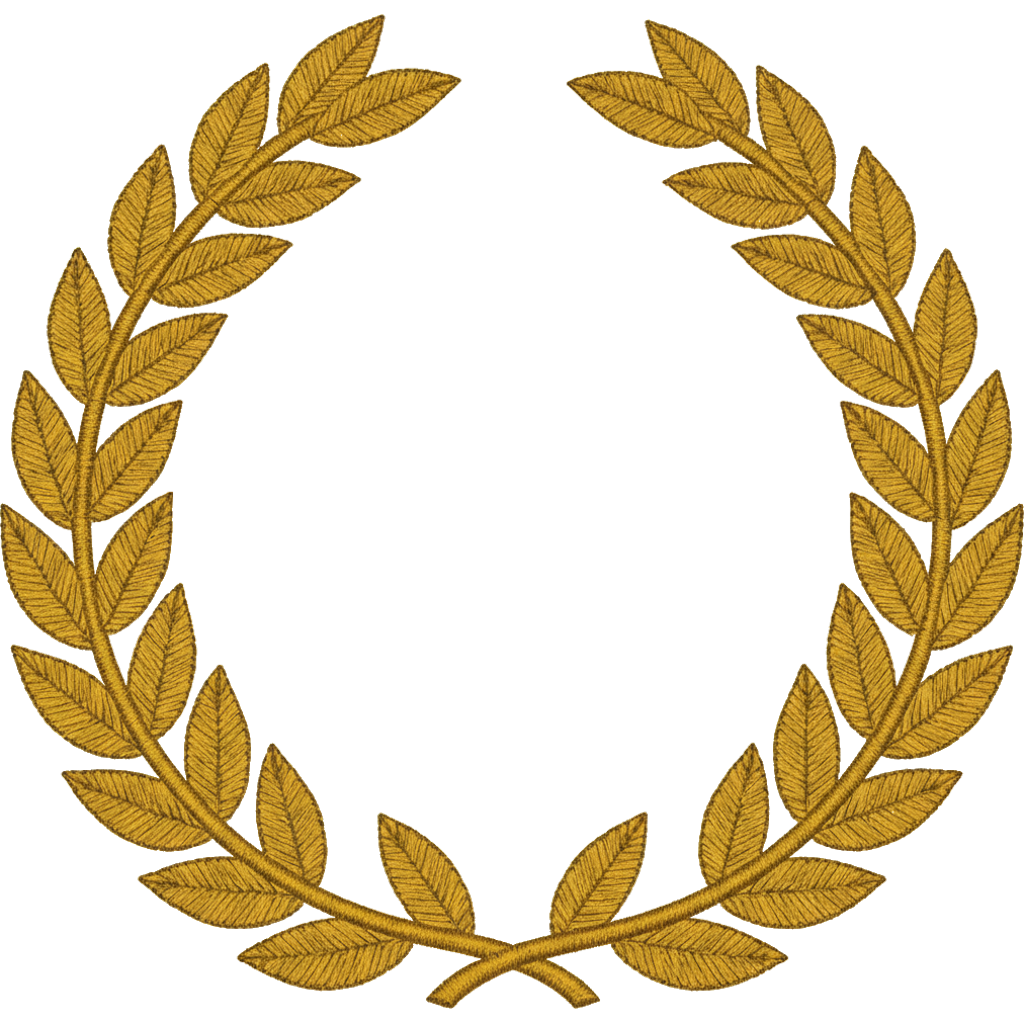
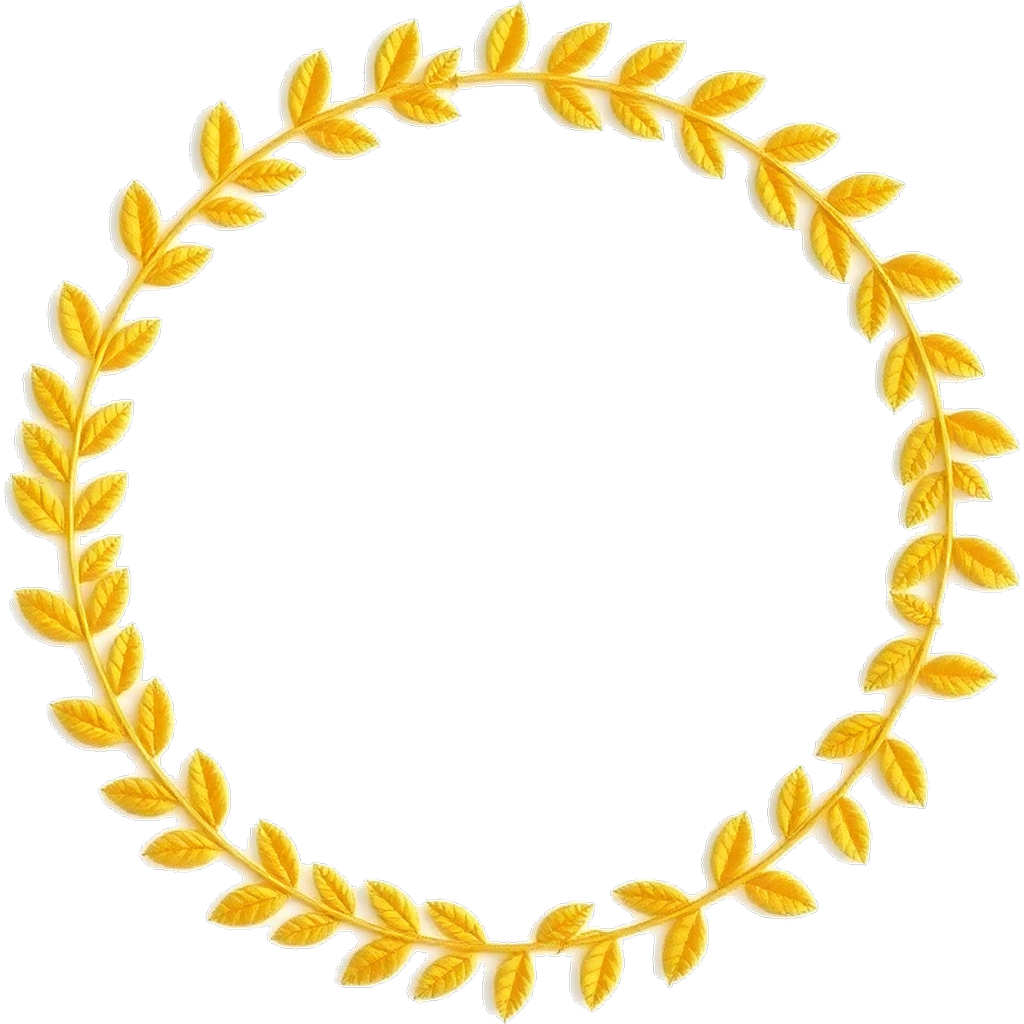
feat(wappen): ローレル月桂冠を閉じた輪に刷新、rope-red を overflow で細く
- wappen-laurel-navy / wappen-laurel-gold を Flux Schnell で閉じた円形リングに
  再生成。従来は C 字型（上が開いたローマ式月桂冠）で、他のワッペン
  (rope-red / zigzag-green) が閉じた輪だったため形状が不整合だった。
- rope-red の overflow=1.35 を適用するため wappen 型にも overflow を
  効かせる。従来のコードは type==='frame' 以外を強制 1.0 にしていた。
- FRAME_INNER_RATIO を新 PNG の実測値に更新 (navy 0.7→0.8, gold 0.65→0.76)。

diff --git a/upload.html b/upload.html
@@ -5818,20 +5818,22 @@
         "frame-gold": 0.72,
         "frame-wood": 0.6,
         "frame-antique": 0.69,
-        "wappen-laurel-navy": 0.7,
-        "wappen-laurel-gold": 0.65,
+        "wappen-laurel-navy": 0.8,
+        "wappen-laurel-gold": 0.76,
         "wappen-rope-red": 0.62,
         "wappen-zigzag-green": 0.74,
       };
 
       // 枠を細く見せるため PNG を canvas より大きく描画し外周を crop する設定。
-      // 1.0 なら従来通り。wood は素直な木目なので crop しても違和感なし。
-      // gold / antique は装飾付きなので crop すると角が切れて不自然になるため、
-      // 代わりに PNG 自体を「細枠で角の装飾が完結する」デザインに作り直している。
+      // 1.0 なら従来通り。wood は素直な木目、rope-red は一様編み模様なので
+      // crop しても違和感なし。gold / antique は装飾付きなので crop すると角が
+      // 切れて不自然になるため、代わりに PNG 自体を「細枠で角の装飾が完結する」
+      // デザインに作り直している。
       const FRAME_BORDER_OVERFLOW = {
         "frame-gold": 1.0,
         "frame-wood": 1.32,
         "frame-antique": 1.0,
+        "wappen-rope-red": 1.35,
       };
 
       async function compositeFrameOnArt(artUrl, frameOpt) {
@@ -5852,10 +5854,7 @@
         // フレーム画像自体を bbox crop+resize で canvas 一杯に拡大済みなので
         // 画像の opaque 領域が canvas 端まで届く＝外周に何も描かなくて良い。
         const innerRatio = FRAME_INNER_RATIO[frameOpt.id] || 0.55;
-        const borderOverflow =
-          frameOpt.type === "frame"
-            ? FRAME_BORDER_OVERFLOW[frameOpt.id] || 1.0
-            : 1.0;
+        const borderOverflow = FRAME_BORDER_OVERFLOW[frameOpt.id] || 1.0;
         const innerSize = SIZE * innerRatio * borderOverflow;
 
         // innerSize より少し大きめ (10%) に描画して、枠の透明穴が小さい方向に
@@ -6005,10 +6004,7 @@
           if (!artImg.naturalWidth || !artImg.naturalHeight)
             throw new Error("zero dimensions");
           const innerRatio = FRAME_INNER_RATIO[frameOpt.id] || 0.5;
-          const borderOverflow =
-            frameOpt.type === "frame"
-              ? FRAME_BORDER_OVERFLOW[frameOpt.id] || 1.0
-              : 1.0;
+          const borderOverflow = FRAME_BORDER_OVERFLOW[frameOpt.id] || 1.0;
           const coverSize = SIZE * innerRatio * borderOverflow * 1.1;
           const frameDrawSize = SIZE * borderOverflow;
           const frameDrawOffset = (SIZE - frameDrawSize) / 2;
@@ -6065,9 +6061,7 @@
             try {
               const frameImg = await loadFrameImg(frameOpt.src);
               const fallbackOverflow =
-                frameOpt.type === "frame"
-                  ? FRAME_BORDER_OVERFLOW[frameOpt.id] || 1.0
-                  : 1.0;
+                FRAME_BORDER_OVERFLOW[frameOpt.id] || 1.0;
               const fds = SIZE * fallbackOverflow;
               const fdo = (SIZE - fds) / 2;
               ctx.drawImage(frameImg, fdo, fdo, fds, fds);
